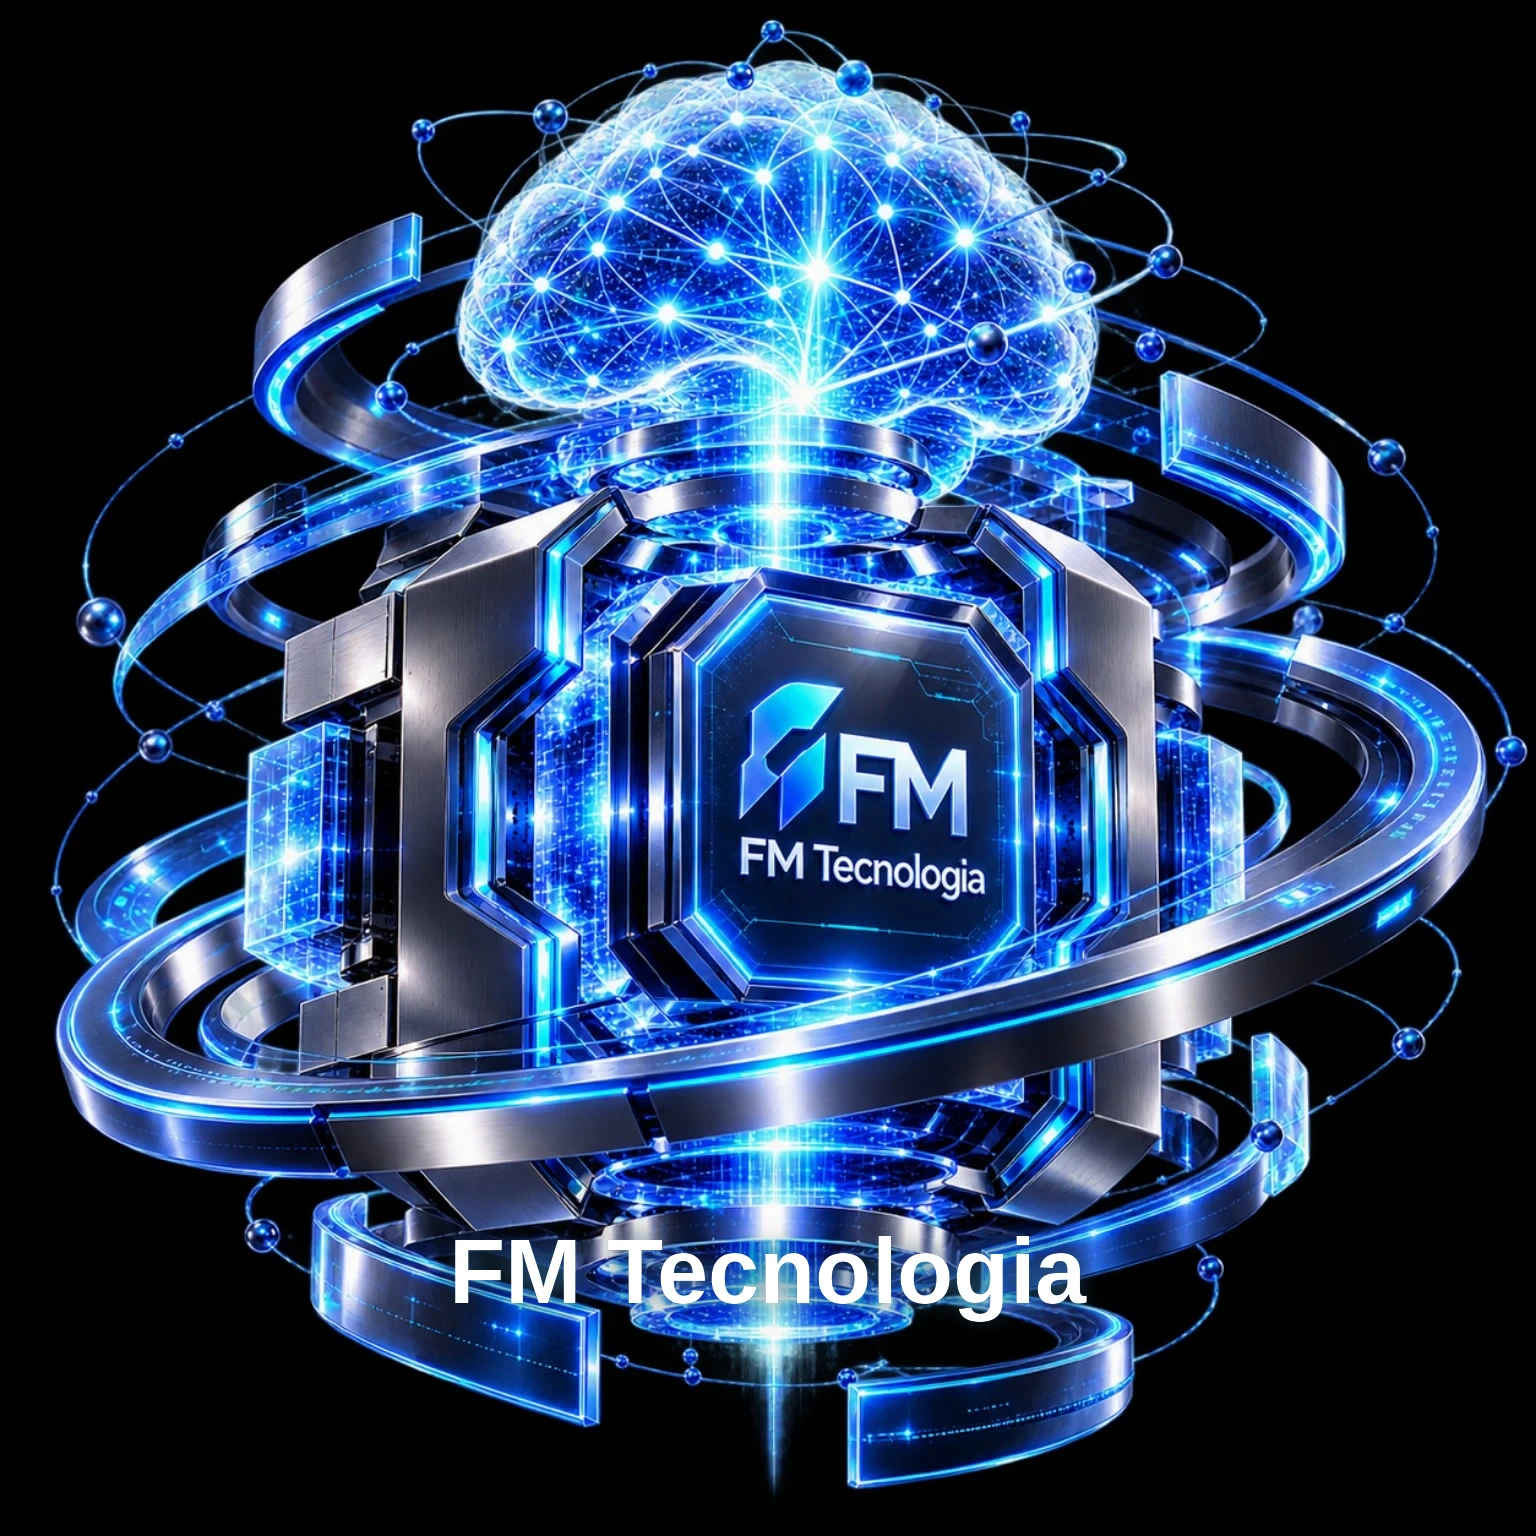
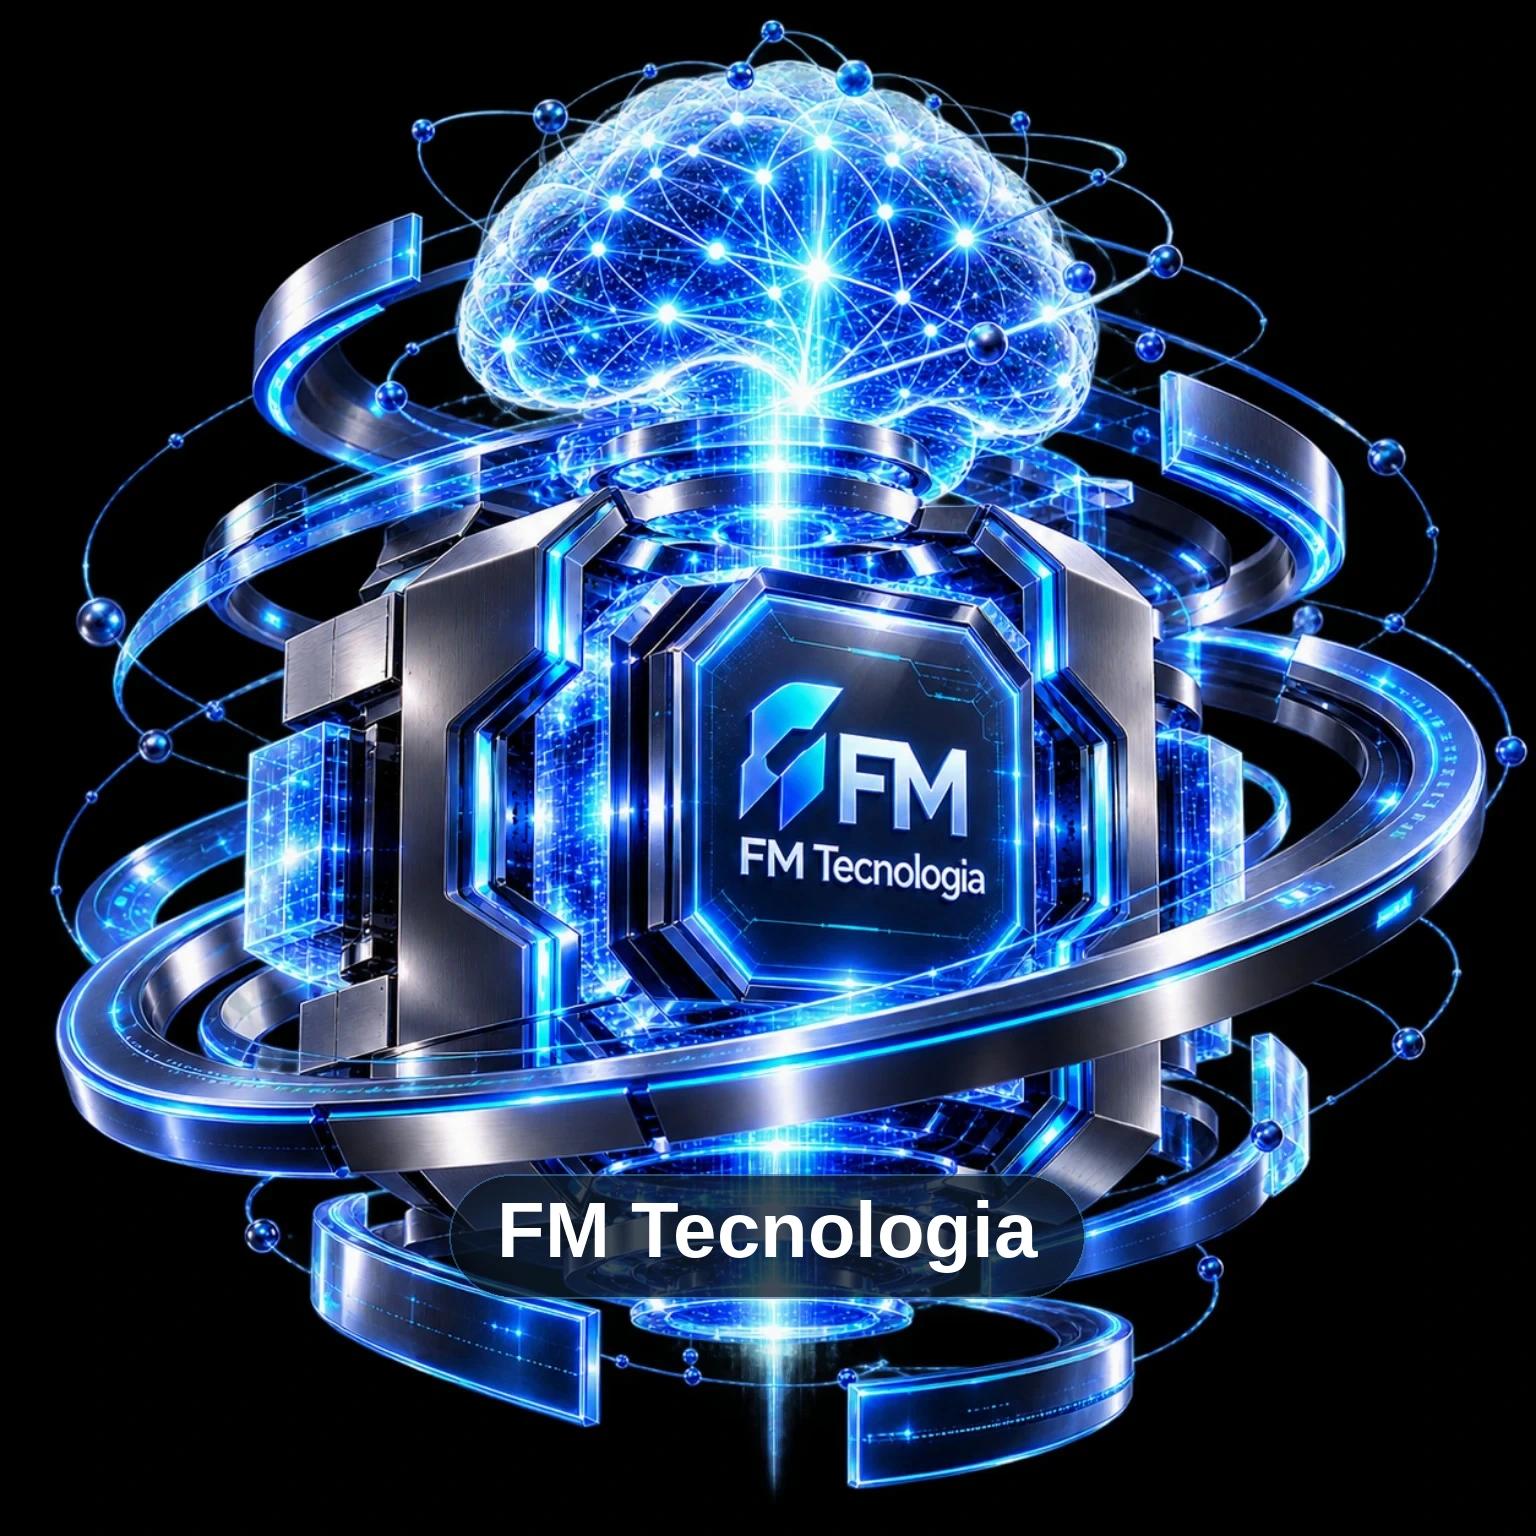
Prototype: 5 captions with visible badge (was: legible but easy to miss)
User reported the captions "weren't there" / looked like a single
repeated phrase. Verified the 4 images were genuinely distinct (md5 of
the caption region differed across all 4, confirmed in the previous
commit), so the assets were never the bug — the real problem was
legibility/salience: plain white text with a soft glow, no background,
was easy to miss against a busy bright image during a 3.6s auto-flip.

blender/make_caption_variants.py: captions now sit on a rounded pill
badge (dark navy fill, cyan border, blurred glow behind the whole pill)
— same visual language as the site's .hero-plate chips, so it reads as
an intentional UI element instead of stray text. Added a 5th caption,
"CORE" — bigger font, brighter border/glow, lighter text tint — meant
to read as the featured/anchor one among the five, per direction.

HeroVisual.tsx: SLIDES now has 5 entries (Core, Kordena, Gerente IA,
FM Tecnologia, Total controle) instead of 4; everything else (flip
carousel mechanics, fallback, reduced-motion handling) unchanged.

Verified: tsc/build clean, captured all 5 slides in sequence (screenshots
not kept in the repo — shown inline in the conversation instead) —
each one visibly distinct this time, easy to read at a glance.
test-fallback.mjs updated to block the new first-slide filename
(core-core); fallback still flips to the plain image with zero errors.
Isolated preview republished to the same artifact URL (version 11),
[…]

Changed region(s): [[0.2812, 0.75, 0.7188, 0.875]]

diff --git a/prototypes/fm-home-hero-concept-v1/src/components/HeroVisual.tsx b/prototypes/fm-home-hero-concept-v1/src/components/HeroVisual.tsx
@@ -1,5 +1,6 @@
 import { useEffect, useRef, useState } from 'react'
 import heroCore from '../assets/hero-core.webp'
+import coreCore from '../assets/core-captions/core-core.webp'
 import coreKordena from '../assets/core-captions/core-kordena.webp'
 import coreGerenteIa from '../assets/core-captions/core-gerente-ia.webp'
 import coreFmTecnologia from '../assets/core-captions/core-fm-tecnologia.webp'
@@ -7,13 +8,15 @@ import coreTotalControle from '../assets/core-captions/core-total-controle.webp'
 import { useReducedMotion } from '../hooks/useMediaFlags'
 
 /**
- * V7 do visual do Hero: a MESMA imagem aprovada da V3, em 4 cópias —
- * cada uma só com uma legenda diferente sobreposta (Kordena, Gerente IA,
- * FM Tecnologia, Total controle). Nenhum pixel novo do Core foi gerado.
+ * V7 do visual do Hero: a MESMA imagem aprovada da V3, em 5 cópias —
+ * cada uma só com um selo/legenda diferente sobreposto (Core — em
+ * destaque, Kordena, Gerente IA, FM Tecnologia, Total controle). Nenhum
+ * pixel novo do Core em si foi gerado, só o selo de texto por cima.
  * O "giro" é um carrossel com flip 3D (perspective + rotateY) trocando
- * entre as 4, não uma reconstrução 3D da cena.
+ * entre as 5, não uma reconstrução 3D da cena.
  */
 const SLIDES = [
+  { src: coreCore, label: 'Core' },
   { src: coreKordena, label: 'Kordena' },
   { src: coreGerenteIa, label: 'Gerente IA' },
   { src: coreFmTecnologia, label: 'FM Tecnologia' },

diff --git a/prototypes/fm-home-hero-concept-v1/blender/make_caption_variants.py b/prototypes/fm-home-hero-concept-v1/blender/make_caption_variants.py
@@ -1,8 +1,10 @@
 """
-Gera 4 cópias da IMAGEM APROVADA DA V3 (hero-core.webp), cada uma com uma
-legenda diferente sobreposta — sem gerar nenhum pixel novo do Core em si,
-só texto por cima. Usado para montar o efeito de "giro" (carrossel/flip)
-no Hero sem re-renderizar nada.
+Gera 5 cópias da IMAGEM APROVADA DA V3 (hero-core.webp), cada uma com uma
+legenda diferente sobreposta em um selo (badge) bem visível — sem gerar
+nenhum pixel novo do Core em si, só o selo de texto por cima. Usado para
+montar o efeito de "giro" (carrossel/flip) no Hero sem re-renderizar nada.
+
+"Core" é a legenda de destaque (selo maior, borda mais brilhante).
 """
 from PIL import Image, ImageDraw, ImageFont, ImageFilter
 import os
@@ -13,45 +15,72 @@ os.makedirs(OUT_DIR, exist_ok=True)
 
 FONT_PATH = "/usr/share/fonts/truetype/liberation/LiberationSans-Bold.ttf"
 
+# (slug, texto, destaque)
 captions = [
-    ("kordena", "Kordena"),
-    ("gerente-ia", "Gerente IA"),
-    ("fm-tecnologia", "FM Tecnologia"),
-    ("total-controle", "Total controle"),
+    ("kordena", "Kordena", False),
+    ("gerente-ia", "Gerente IA", False),
+    ("fm-tecnologia", "FM Tecnologia", False),
+    ("total-controle", "Total controle", False),
+    ("core", "CORE", True),
 ]
 
 base = Image.open(SRC).convert("RGBA")
 W, H = base.size
 
-for slug, text in captions:
+
+def rounded_pill(size, radius, fill, outline, outline_width):
+    w, h = size
+    layer = Image.new("RGBA", (w, h), (0, 0, 0, 0))
+    d = ImageDraw.Draw(layer)
+    d.rounded_rectangle((0, 0, w - 1, h - 1), radius=radius, fill=fill, outline=outline, width=outline_width)
+    return layer
+
+
+for slug, text, featured in captions:
     img = base.copy()
 
-    # camada de texto com glow (desenhada em separado, borrada, e composta)
-    label_layer = Image.new("RGBA", (W, H), (0, 0, 0, 0))
-    draw = ImageDraw.Draw(label_layer)
-
-    font_size = 92
+    font_size = 108 if featured else 78
     font = ImageFont.truetype(FONT_PATH, font_size)
 
-    bbox = draw.textbbox((0, 0), text, font=font)
+    tmp_draw = ImageDraw.Draw(img)
+    bbox = tmp_draw.textbbox((0, 0), text, font=font)
     text_w = bbox[2] - bbox[0]
     text_h = bbox[3] - bbox[1]
-    x = (W - text_w) / 2 - bbox[0]
-    y = H - 300 - bbox[1]
 
-    # glow: múltiplas passadas borradas em ciano
-    glow_layer = Image.new("RGBA", (W, H), (0, 0, 0, 0))
-    glow_draw = ImageDraw.Draw(glow_layer)
-    glow_draw.text((x, y), text, font=font, fill=(79, 176, 255, 255))
-    glow_layer = glow_layer.filter(ImageFilter.GaussianBlur(14))
+    pad_x, pad_y = (64, 34) if featured else (48, 26)
+    pill_w = int(text_w + pad_x * 2)
+    pill_h = int(text_h + pad_y * 2)
+    pill_x = int((W - pill_w) / 2)
+    pill_y = H - 300 - pill_h // 2
 
-    label_layer = Image.alpha_composite(label_layer, glow_layer)
-    draw = ImageDraw.Draw(label_layer)
-    draw.text((x, y), text, font=font, fill=(255, 255, 255, 255))
+    # glow atrás do selo inteiro
+    glow_color = (79, 176, 255, 235) if featured else (79, 176, 255, 150)
+    glow = rounded_pill((pill_w, pill_h), pill_h // 2, glow_color, None, 0)
+    glow = glow.filter(ImageFilter.GaussianBlur(22 if featured else 14))
+    glow_canvas = Image.new("RGBA", (W, H), (0, 0, 0, 0))
+    glow_canvas.paste(glow, (pill_x, pill_y), glow)
+    img = Image.alpha_composite(img, glow_canvas)
 
-    out = Image.alpha_composite(img, label_layer).convert("RGB")
+    # selo (pill) sólido
+    fill_color = (10, 22, 38, 235) if featured else (8, 16, 28, 210)
+    outline_color = (143, 211, 255, 255) if featured else (79, 176, 255, 180)
+    pill = rounded_pill((pill_w, pill_h), pill_h // 2, fill_color, outline_color, 3 if featured else 2)
+    pill_canvas = Image.new("RGBA", (W, H), (0, 0, 0, 0))
+    pill_canvas.paste(pill, (pill_x, pill_y), pill)
+    img = Image.alpha_composite(img, pill_canvas)
+
+    # texto centralizado dentro do selo
+    text_canvas = Image.new("RGBA", (W, H), (0, 0, 0, 0))
+    td = ImageDraw.Draw(text_canvas)
+    tx = pill_x + pad_x - bbox[0]
+    ty = pill_y + pad_y - bbox[1]
+    text_color = (191, 230, 255, 255) if featured else (255, 255, 255, 255)
+    td.text((tx, ty), text, font=font, fill=text_color)
+    img = Image.alpha_composite(img, text_canvas)
+
+    out = img.convert("RGB")
     out_path = os.path.join(OUT_DIR, f"core-{slug}.webp")
     out.save(out_path, quality=92)
-    print(f"saved {out_path}")
+    print(f"saved {out_path} (pill {pill_w}x{pill_h})")
 
 print("done")
